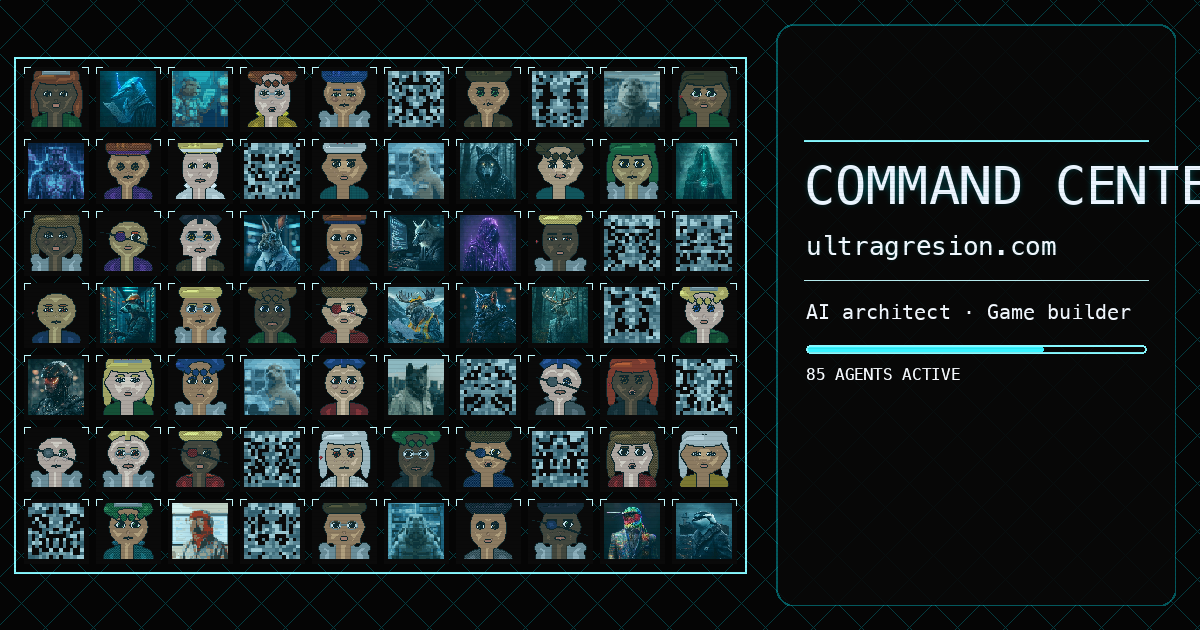
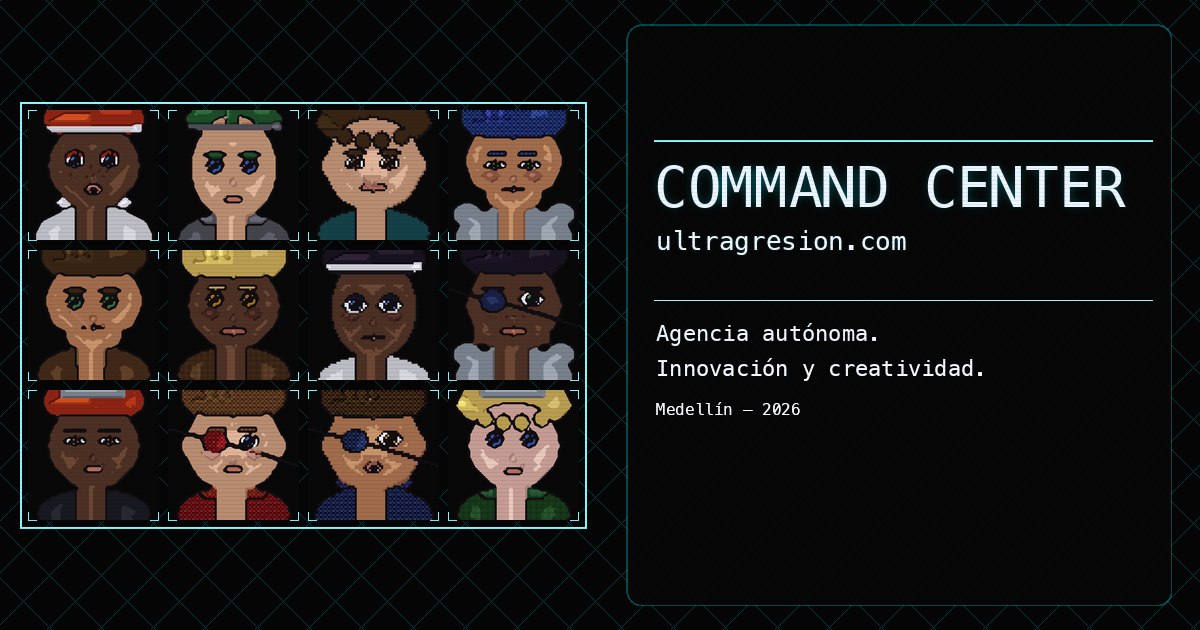
feat: update brand, tagline and about page
- OG banner: 12 animal portraits (PortraitEngine v2, no legacy sprites)
- Banner copy: Agencia autónoma / Innovación y creatividad
- Homepage tagline: Innovación y creatividad
- About: remove stack section
- About socials: visual identity cards with brand colors per network

diff --git a/src/app/about/page.tsx b/src/app/about/page.tsx
@@ -2,21 +2,38 @@ import type { Metadata } from 'next';
 
 export const metadata: Metadata = {
   title: 'Ultragresion — About',
-  description: 'Federico Gutiérrez — AI architect, backend systems developer, game builder. Builder of autonomous agentic ecosystems, isometric games, and AI infrastructure.',
+  description: 'Federico Gutiérrez — builder of autonomous systems, isometric worlds, and creative infrastructure.',
 };
 
 const SOCIAL = [
-  { label: 'Blog', href: 'https://ultragresion.blogspot.com/' },
-  { label: 'SoundCloud', href: 'https://soundcloud.com/ultragresion/tracks' },
-  { label: 'Instagram', href: 'https://www.instagram.com/ultragresion/' },
-  { label: 'LinkedIn', href: 'https://www.linkedin.com/in/federico-guti%C3%A9rrez-correa-0b0187144/' },
-];
-
-const STACK = [
-  'Python, TypeScript, SQLite, FastMCP',
-  'Next.js, Flask, SocketIO',
-  'Agent architecture, Clean/Hexagonal Architecture',
-  'Cloudflare, Linux, macOS',
+  {
+    label: 'Blog',
+    sub: 'Escritura y reflexiones',
+    href: 'https://ultragresion.blogspot.com/',
+    accent: '#FF6B35',
+    symbol: '✍',
+  },
+  {
+    label: 'SoundCloud',
+    sub: 'Producción musical',
+    href: 'https://soundcloud.com/ultragresion/tracks',
+    accent: '#FF5500',
+    symbol: '◎',
+  },
+  {
+    label: 'Instagram',
+    sub: 'Visuales y proceso',
+    href: 'https://www.instagram.com/ultragresion/',
+    accent: '#C13584',
+    symbol: '◈',
+  },
+  {
+    label: 'LinkedIn',
+    sub: 'Perfil profesional',
+    href: 'https://www.linkedin.com/in/federico-guti%C3%A9rrez-correa-0b0187144/',
+    accent: '#0A66C2',
+    symbol: '⬡',
+  },
 ];
 
 export default function AboutPage() {
@@ -31,24 +48,8 @@ export default function AboutPage() {
           Ultragresion
         </h1>
         <p className="text-sm text-[#00F0FF] tracking-wide opacity-80">
-          Federico Gutiérrez — AI architect · Backend developer · Sound producer
+          Federico Gutiérrez — Medellín, Colombia
         </p>
-        <p className="text-xs text-slate-500 mt-1 tracking-widest">Medellín, Colombia</p>
-      </section>
-
-      <div className="accent-line mb-10" />
-
-      {/* STACK */}
-      <section className="mb-10">
-        <p className="text-xs text-[#00F0FF] opacity-50 tracking-widest mb-4">// STACK</p>
-        <ul className="flex flex-col gap-2">
-          {STACK.map((item) => (
-            <li key={item} className="text-sm text-slate-300 flex items-start gap-3">
-              <span className="text-[#00F0FF] opacity-70 select-none">·</span>
-              {item}
-            </li>
-          ))}
-        </ul>
       </section>
 
       <div className="accent-line mb-10" />
@@ -58,13 +59,16 @@ export default function AboutPage() {
         <p className="text-xs text-[#00F0FF] opacity-50 tracking-widest mb-4">// LO QUE CONSTRUYO</p>
         <div className="flex flex-col gap-3 text-sm text-slate-300 leading-relaxed">
           <p>
-            Construyo ecosistemas autónomos. Mi proyecto central — Command Center — corre 85 agentes activos que gestionan proyectos, auditan dependencias, generan código y coordinan flujos de trabajo sin intervención humana constante.
+            Construyo ecosistemas autónomos donde la tecnología y la creatividad convergen.
+            Mi trabajo vive en la intersección de la inteligencia artificial, el diseño de sistemas
+            y la expresión personal.
           </p>
           <p>
-            También construyo juegos isométricos multijugador, donde la infraestructura de agentes y el motor de juego coexisten en el mismo sistema. Cada pieza tiene propósito técnico y estético.
+            Juegos isométricos multijugador, infraestructura de agentes, producción musical.
+            Cada pieza tiene propósito técnico y estético — ninguna existe solo por existir.
           </p>
           <p>
-            Además de eso: infraestructura de AI, pipelines de publicación personal, y producción musical. Todo conectado bajo la misma arquitectura.
+            Todo conectado bajo la misma arquitectura. Todo orientado a amplificar la capacidad humana.
           </p>
         </div>
       </section>
@@ -74,20 +78,29 @@ export default function AboutPage() {
       {/* REDES */}
       <section className="mb-10">
         <p className="text-xs text-[#00F0FF] opacity-50 tracking-widest mb-4">// REDES</p>
-        <ul className="flex flex-col gap-3">
+        <ul className="flex flex-col gap-4">
           {SOCIAL.map((s) => (
             <li key={s.label}>
               <a
                 href={s.href}
                 target="_blank"
                 rel="noopener noreferrer"
-                className="text-sm text-slate-400 hover:text-[#00F0FF] transition-colors tracking-wide"
+                className="group flex items-center gap-4 p-3 border border-white/5 hover:border-white/15 transition-all"
+                style={{ ['--accent' as string]: s.accent }}
               >
-                <span className="text-slate-600 mr-2">[{s.label}]</span>
-                <span className="text-[#00F0FF] opacity-60 mr-2">→</span>
-                <span className="underline underline-offset-4 decoration-white/10 hover:decoration-[#00F0FF44]">
-                  {s.href}
+                <span
+                  className="text-xl w-8 text-center transition-colors"
+                  style={{ color: s.accent }}
+                >
+                  {s.symbol}
                 </span>
+                <div className="flex flex-col">
+                  <span className="text-sm text-white font-bold tracking-wide group-hover:text-white transition-colors">
+                    {s.label}
+                  </span>
+                  <span className="text-xs text-slate-500 mt-0.5">{s.sub}</span>
+                </div>
+                <span className="ml-auto text-xs text-slate-600 group-hover:text-slate-400 transition-colors">↗</span>
               </a>
             </li>
           ))}
@@ -100,7 +113,9 @@ export default function AboutPage() {
       <section className="mb-10">
         <p className="text-xs text-[#00F0FF] opacity-50 tracking-widest mb-4">// COMMAND CENTER</p>
         <p className="text-sm text-slate-300 leading-relaxed mb-4">
-          Command Center es mi sistema operativo personal — un ecosistema de 85 agentes autónomos que gestiona proyectos, genera código, audita dependencias y corre este juego isométrico en tiempo real.
+          Command Center es mi sistema operativo personal — un ecosistema de agentes autónomos
+          que gestiona proyectos, genera código y corre un juego isométrico en tiempo real.
+          Agencia autónoma. Innovación y creatividad.
         </p>
         <a
           href="https://play.ultragresion.com/play"

diff --git a/src/app/page.tsx b/src/app/page.tsx
@@ -16,7 +16,7 @@ export default function HomePage() {
           Ultragresion
         </h1>
         <p className="text-xs text-[#00F0FF] tracking-[0.3em] mt-1 opacity-80">
-          AI architect · Game builder · Signal emitter
+          Innovación y creatividad
           <span className="blink-cursor">_</span>
         </p>
       </header>
